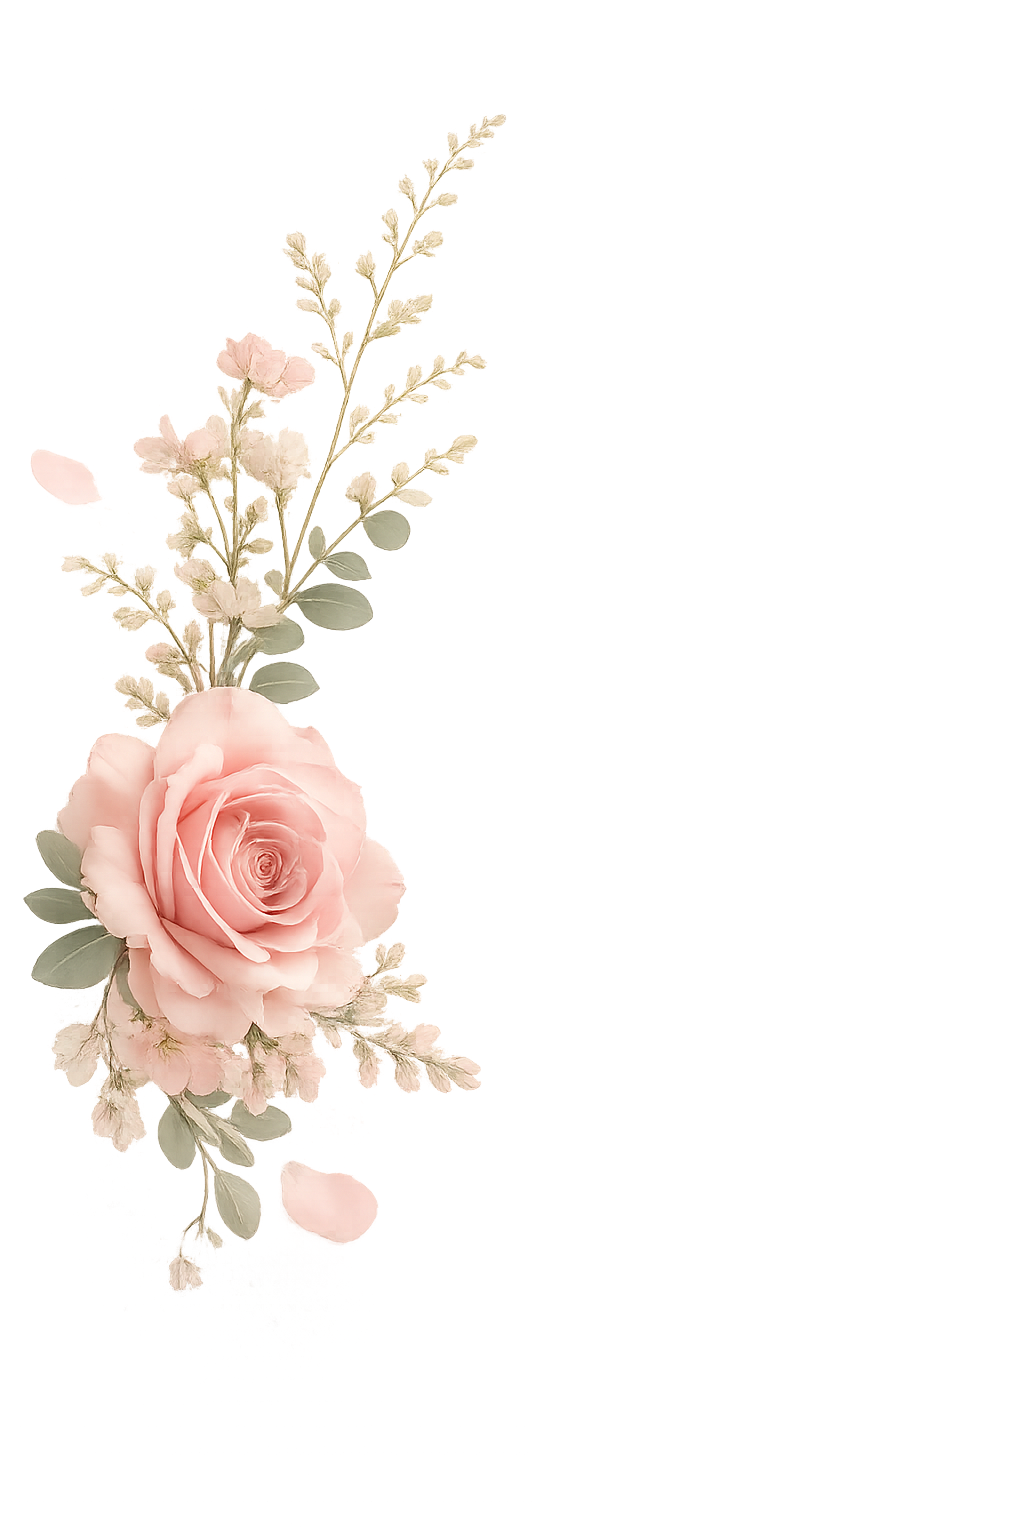
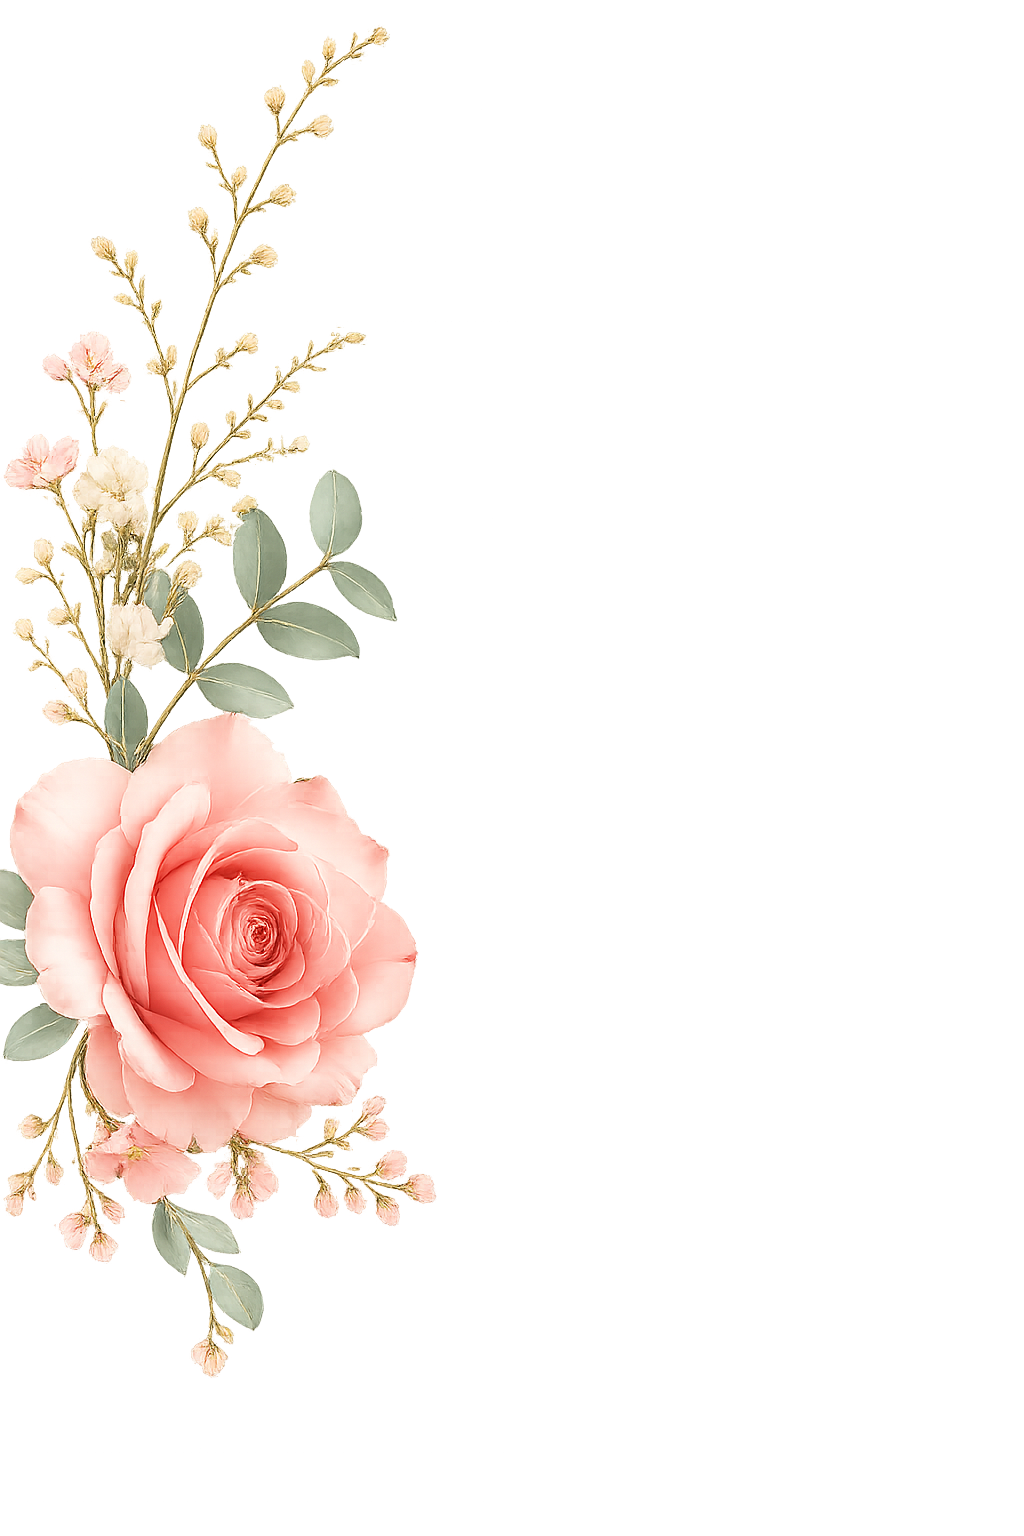
feat: add invitation photo and petal assets

Changed region(s): [[0.0, 0.0312, 0.5, 0.9062], [0.3438, 0.0, 0.375, 0.0312]]

diff --git a/src/styles.css b/src/styles.css
@@ -39,46 +39,59 @@ a {
   position: relative;
   width: min(100%, 520px);
   margin: 0 auto;
-  padding: 0 14px 42px;
+  padding: 20px 14px 42px;
   overflow: hidden;
 }
 
 .invitation-card {
   position: relative;
   z-index: 1;
+  isolation: isolate;
   max-width: 430px;
   margin: 0 auto;
   min-height: 100vh;
   padding: 30px 26px 32px;
   overflow: hidden;
   background:
-    linear-gradient(140deg, rgba(255, 255, 255, 0.92), rgba(255, 250, 247, 0.78)),
-    radial-gradient(circle at 50% 22%, rgba(255, 255, 255, 0.95), transparent 28%);
-  border: 1px solid rgba(224, 177, 153, 0.5);
-  border-radius: 34px;
-  box-shadow: var(--shadow), inset 0 0 0 6px rgba(255, 255, 255, 0.58), inset 0 0 0 10px rgba(238, 188, 168, 0.12);
+    radial-gradient(circle at 12% 10%, rgba(255, 255, 255, 0.72), transparent 20%),
+    radial-gradient(circle at 92% 0%, rgba(255, 255, 255, 0.58), transparent 18%),
+    linear-gradient(180deg, #fbe7e4 0%, #fff5f2 38%, #f9dcd8 100%);
+  border: 1px solid rgba(255, 255, 255, 0.75);
+  border-radius: 36px;
+  box-shadow: var(--shadow), inset 0 1px 0 rgba(255, 255, 255, 0.72);
   animation: cardEnter 0.9s ease both;
 }
 
 .invitation-card::before,
 .invitation-card::after {
   position: absolute;
-  z-index: -1;
-  width: 0;
-  height: 0;
   content: "";
+  pointer-events: none;
 }
 
 .invitation-card::before {
-  left: -68px;
-  top: 325px;
-  transform: rotate(-12deg);
+  inset: 34px 8px 8px;
+  z-index: 0;
+  background:
+    radial-gradient(circle at 50% 18%, rgba(255, 255, 255, 0.96), transparent 28%),
+    linear-gradient(180deg, rgba(255, 255, 255, 0.94), rgba(255, 250, 247, 0.88));
+  border: 1px solid rgba(229, 181, 160, 0.58);
+  border-radius: 28px;
+  box-shadow:
+    inset 0 0 0 4px rgba(255, 255, 255, 0.72),
+    inset 0 20px 40px rgba(255, 255, 255, 0.75),
+    inset 0 -20px 46px rgba(238, 190, 174, 0.16),
+    0 18px 34px rgba(198, 126, 116, 0.12);
 }
 
 .invitation-card::after {
-  right: -78px;
-  top: 280px;
-  transform: scaleX(-1) rotate(-10deg);
+  inset: 40px 14px auto;
+  z-index: 1;
+  height: 120px;
+  background:
+    radial-gradient(ellipse at 15% 18%, rgba(238, 151, 145, 0.26), transparent 8%),
+    linear-gradient(180deg, rgba(255, 255, 255, 0.72), transparent);
+  border-radius: 26px 26px 0 0;
 }
 
 .decorative-flower {
@@ -113,6 +126,7 @@ a {
 
 .section {
   position: relative;
+  z-index: 2;
   margin: 18px 0;
 }
 
@@ -217,9 +231,35 @@ h2 {
 .portrait-frame::before {
   position: absolute;
   inset: 16px 18px;
+  z-index: 3;
   content: "";
   border: 1px solid rgba(213, 166, 109, 0.28);
   border-radius: inherit;
+}
+
+.portrait-frame::after {
+  position: absolute;
+  inset: 0;
+  z-index: 2;
+  content: "";
+  pointer-events: none;
+  background:
+    linear-gradient(180deg, rgba(255, 248, 246, 0.26), rgba(229, 148, 139, 0.12)),
+    radial-gradient(circle at 50% 18%, rgba(255, 255, 255, 0.32), transparent 34%);
+  mix-blend-mode: soft-light;
+}
+
+.couple-photo {
+  position: absolute;
+  inset: 0;
+  z-index: 1;
+  width: 100%;
+  height: 100%;
+  object-fit: cover;
+  object-position: 70% 90%;
+  opacity: 0.72;
+  filter: sepia(0.08) saturate(0.82) contrast(0.92) brightness(1.08);
+  transform: scale(1.04);
 }
 
 .couple-silhouette {
@@ -565,7 +605,7 @@ h2 {
 .petals {
   position: fixed;
   inset: 0;
-  z-index: 0;
+  z-index: 20;
   pointer-events: none;
   overflow: hidden;
 }
@@ -573,12 +613,30 @@ h2 {
 .petal {
   position: absolute;
   top: -40px;
-  width: 26px;
-  height: 17px;
-  background: radial-gradient(ellipse at 30% 35%, #fff3f1 0 18%, #f4b7b3 45%, rgba(233, 154, 148, 0.25) 72%);
-  border-radius: 72% 28% 72% 28%;
-  opacity: 0.72;
+  width: 82px;
+  height: 82px;
+  background-image: var(--petal-image);
+  background-position: center;
+  background-repeat: no-repeat;
+  background-size: contain;
+  opacity: var(--petal-opacity);
+  filter:
+    saturate(1.45)
+    contrast(1.08)
+    drop-shadow(0 5px 8px rgba(220, 112, 108, 0.28))
+    drop-shadow(0 12px 18px rgba(231, 147, 141, 0.16));
+  transform-origin: center;
   animation: petalFall 11s linear infinite;
+}
+
+.petal:nth-child(3n) {
+  width: 104px;
+  height: 104px;
+}
+
+.petal:nth-child(4n) {
+  width: 64px;
+  height: 64px;
 }
 
 @keyframes cardEnter {
@@ -638,10 +696,13 @@ h2 {
 
 @keyframes petalFall {
   0% {
-    transform: translate3d(0, -40px, 0) rotate(0deg);
+    transform: translate3d(0, -60px, 0) rotate(var(--petal-rotate)) scale(var(--petal-scale));
+  }
+  45% {
+    transform: translate3d(calc(var(--petal-drift) * 42), 48vh, 0) rotate(calc(var(--petal-rotate) + 210deg)) scale(var(--petal-scale));
   }
   100% {
-    transform: translate3d(64px, 110vh, 0) rotate(540deg);
+    transform: translate3d(calc(var(--petal-drift) * -34), 110vh, 0) rotate(calc(var(--petal-rotate) + 540deg)) scale(var(--petal-scale));
   }
 }
 
@@ -674,13 +735,18 @@ h2 {
 
 @media (max-width: 560px) {
   .page {
-    padding: 0 8px 28px;
+    padding: 16px 8px 28px;
   }
 
   .invitation-card {
     border-radius: 34px;
     padding: 28px 24px 30px;
-    box-shadow: 0 18px 54px rgba(202, 139, 125, 0.22), inset 0 0 0 5px rgba(255, 255, 255, 0.56);
+    box-shadow: 0 18px 54px rgba(202, 139, 125, 0.22), inset 0 1px 0 rgba(255, 255, 255, 0.7);
+  }
+
+  .invitation-card::before {
+    inset: 32px 7px 7px;
+    border-radius: 26px;
   }
 
   .hero {
@@ -715,12 +781,12 @@ h2 {
   }
 
   .flower-left {
-    left: -30px;
-    top: 280px;
+    left: -10px;
+    top: 275px;
   }
 
   .flower-right {
-    right: -40px;
+    right: -25px;
     top: 225px;
     width: 268px;
     height: 402px;

diff --git a/src/App.jsx b/src/App.jsx
@@ -21,9 +21,14 @@ const photos = [
 
 const petals = Array.from({ length: 16 }, (_, index) => ({
   id: index,
+  image: `/petal-${(index % 3) + 1}.png`,
   left: `${(index * 17) % 100}%`,
+  drift: `${index % 2 === 0 ? 1 : -1}px`,
+  scale: (0.38 + (index % 5) * 0.08).toFixed(2),
+  opacity: (0.72 + (index % 4) * 0.06).toFixed(2),
+  rotate: `${(index * 37) % 180}deg`,
   delay: `${(index % 8) * 0.75}s`,
-  duration: `${9 + (index % 5)}s`,
+  duration: `${10 + (index % 6)}s`,
 }));
 
 function loadAmap() {
@@ -167,7 +172,16 @@ function Petals() {
         <span
           className="petal"
           key={petal.id}
-          style={{ left: petal.left, animationDelay: petal.delay, animationDuration: petal.duration }}
+          style={{
+            '--petal-image': `url(${petal.image})`,
+            '--petal-drift': petal.drift,
+            '--petal-scale': petal.scale,
+            '--petal-opacity': petal.opacity,
+            '--petal-rotate': petal.rotate,
+            left: petal.left,
+            animationDelay: petal.delay,
+            animationDuration: petal.duration,
+          }}
         />
       ))}
     </div>
@@ -192,10 +206,7 @@ export default function App() {
           <p className="subtitle">诚挚邀请您见证我们的幸福时刻</p>
 
           <div className="portrait-frame" aria-label="新人合影剪影">
-            <div className="couple-silhouette">
-              <span className="groom" />
-              <span className="bride" />
-            </div>
+            <img className="couple-photo" src="/couple-photo.JPG" alt="王刚和谢何丽婚纱照" />
             <span className="gold-heart">♥</span>
           </div>
 
